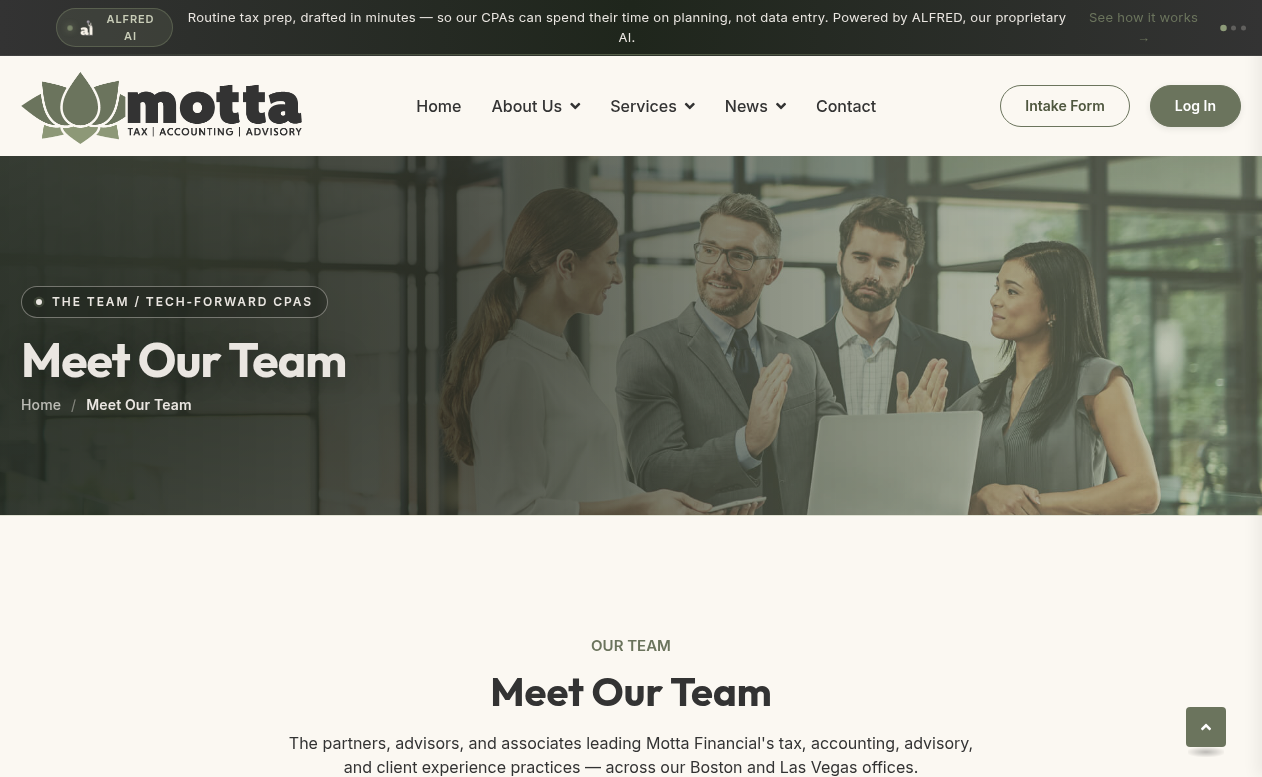
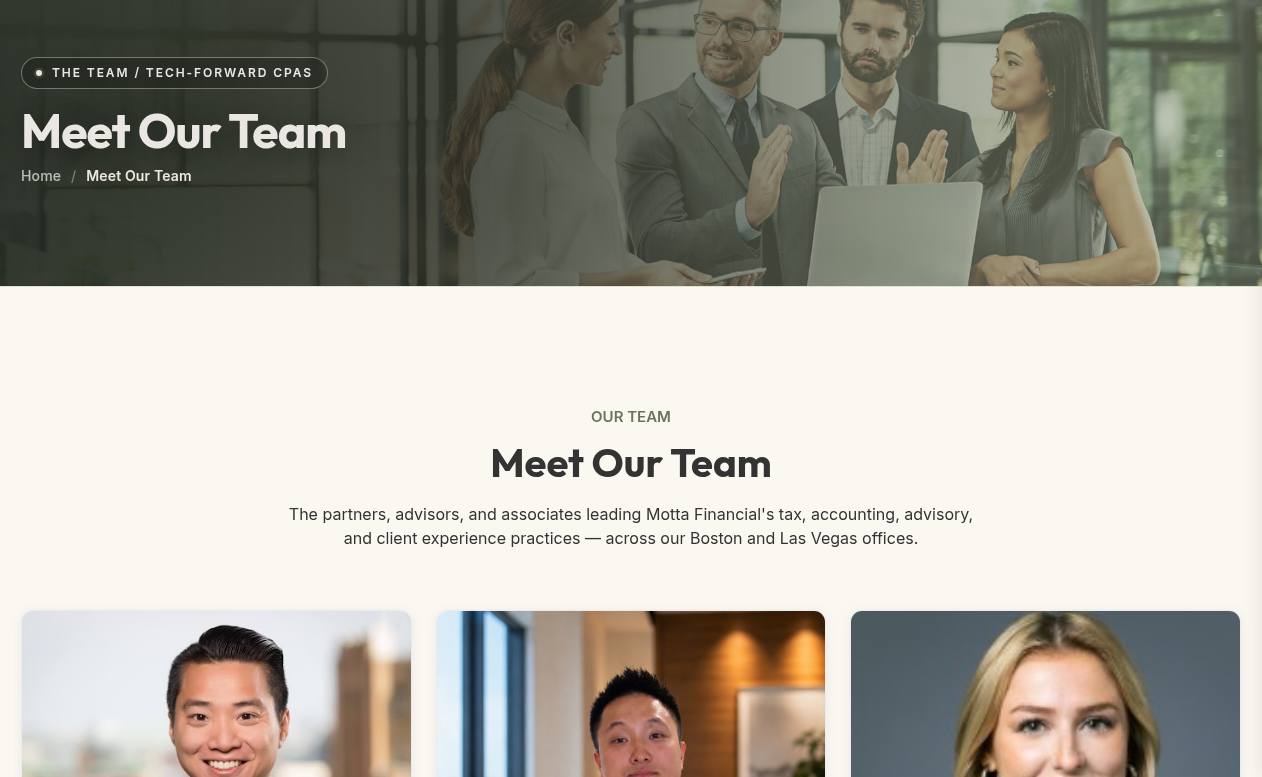
feat: update team page styles and add new contact link styles

diff --git a/components/team/TeamContactLinks.js b/components/team/TeamContactLinks.js
@@ -36,15 +36,56 @@ function CalendarIcon() {
   );
 }
 
+const rowStyle = {
+  display: 'flex',
+  alignItems: 'center',
+  gap: '8px',
+  padding: '16px 24px 20px',
+  borderTop: '1px solid #E2DDD6',
+  marginTop: 'auto',
+};
+
+const iconBtnStyle = {
+  display: 'inline-flex',
+  alignItems: 'center',
+  justifyContent: 'center',
+  width: '36px',
+  height: '36px',
+  borderRadius: '50%',
+  border: '1.5px solid #D6D2CB',
+  background: 'transparent',
+  color: '#4A4843',
+  textDecoration: 'none',
+  flexShrink: 0,
+  transition: 'border-color 0.2s, color 0.2s',
+};
+
+const calBtnStyle = {
+  display: 'inline-flex',
+  alignItems: 'center',
+  gap: '6px',
+  padding: '8px 16px',
+  borderRadius: '6px',
+  background: '#6B745D',
+  color: '#FFFFFF',
+  fontFamily: 'Outfit, sans-serif',
+  fontSize: '13px',
+  fontWeight: 500,
+  textDecoration: 'none',
+  letterSpacing: '0.01em',
+  marginLeft: 'auto',
+  flexShrink: 0,
+};
+
 export default function TeamContactLinks({ member }) {
   const { email, linkedin, calendly, name } = member || {};
   if (!email && !linkedin && !calendly) return null;
 
   return (
-    <div className="motta-team-contact">
+    <div style={rowStyle}>
       {email && (
         <a
-          className="motta-team-contact__icon"
+          style={iconBtnStyle}
           href={`mailto:${email}`}
           title={email}
           aria-label={`Email ${name}`}
@@ -54,7 +95,7 @@ export default function TeamContactLinks({ member }) {
       )}
       {linkedin && (
         <a
-          className="motta-team-contact__icon"
+          style={iconBtnStyle}
           href={linkedin}
           target="_blank"
           rel="noopener noreferrer"
@@ -65,7 +106,7 @@ export default function TeamContactLinks({ member }) {
       )}
       {calendly && (
         <a
-          className="motta-team-contact__cal"
+          style={calBtnStyle}
           href={calendly}
           target="_blank"
           rel="noopener noreferrer"

diff --git a/app/about/team/page.js b/app/about/team/page.js
@@ -169,7 +169,7 @@ const nameStyle = {
   fontFamily: 'Outfit, sans-serif',
   fontSize: '20px',
   fontWeight: 600,
-  color: '#14176C',
+  color: '#1A1A1A',
   marginBottom: '4px',
   lineHeight: 1.2,
 };
@@ -186,8 +186,8 @@ const roleStyle = {
 
 const dividerStyle = {
   height: '1px',
-  background: '#E8E6E1',
-  margin: '0 0 16px',
+  background: '#E2DDD6',
+  margin: '0 0 14px',
   border: 'none',
 };
 
@@ -205,7 +205,7 @@ const blurbStyle = {
   fontFamily: 'Inter, sans-serif',
   fontSize: '13.5px',
   fontWeight: 400,
-  color: '#3E4073',
+  color: '#4A4843',
   lineHeight: 1.75,
   marginBottom: 0,
   flexGrow: 1,
